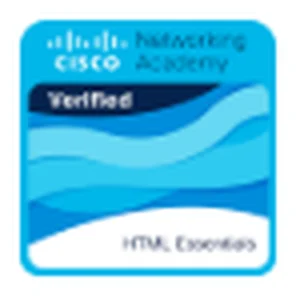
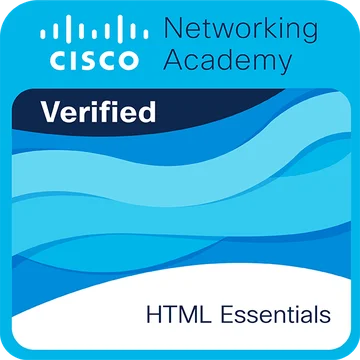
Update HTML essential

diff --git a/index.html b/index.html
@@ -233,7 +233,7 @@
     <h2 class="section__title reveal">Certified &amp; verified.</h2>
     <div class="achievements reveal">
       <button type="button" class="achievement-card" data-src="assets/achievements/html-essentials.png" data-title="HTML Essentials" aria-label="View HTML Essentials badge">
-        <img src="assets/achievements/thumbs/html-essentials.webp" alt="Cisco Networking Academy: HTML Essentials" width="296" height="296" loading="lazy" decoding="async">
+        <img src="assets/achievements/thumbs/html-essentials.webp" alt="Cisco Networking Academy: HTML Essentials" width="360" height="360" loading="lazy" decoding="async">
         <p>HTML Essentials</p>
         <span class="achievement-card__hint">Click to view</span>
       </button>
